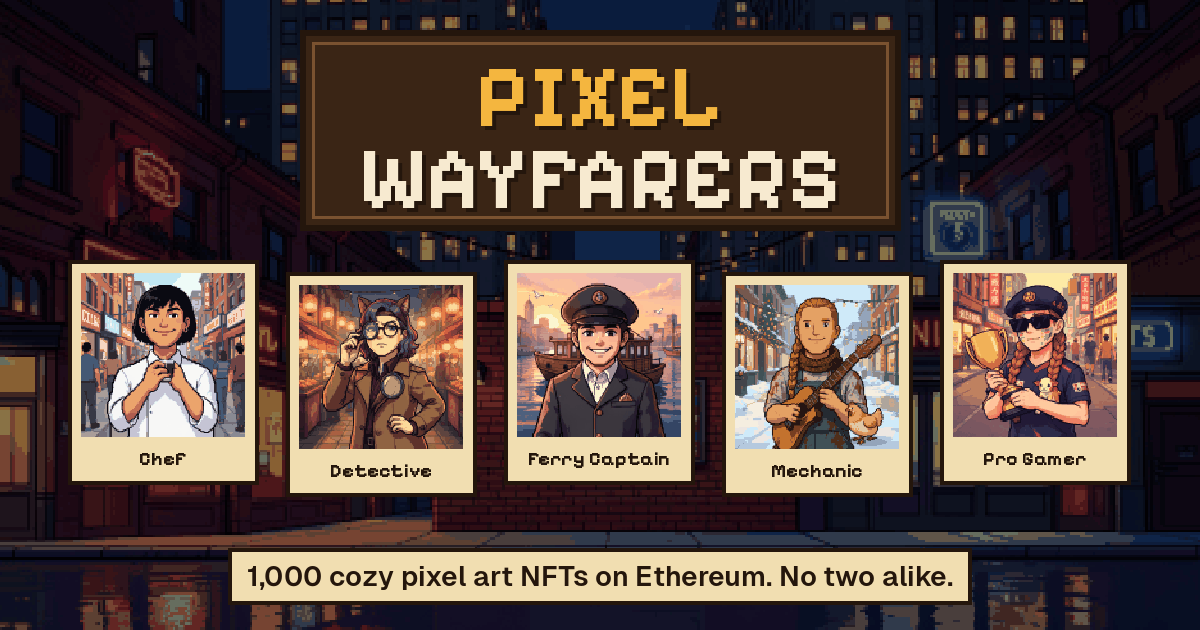
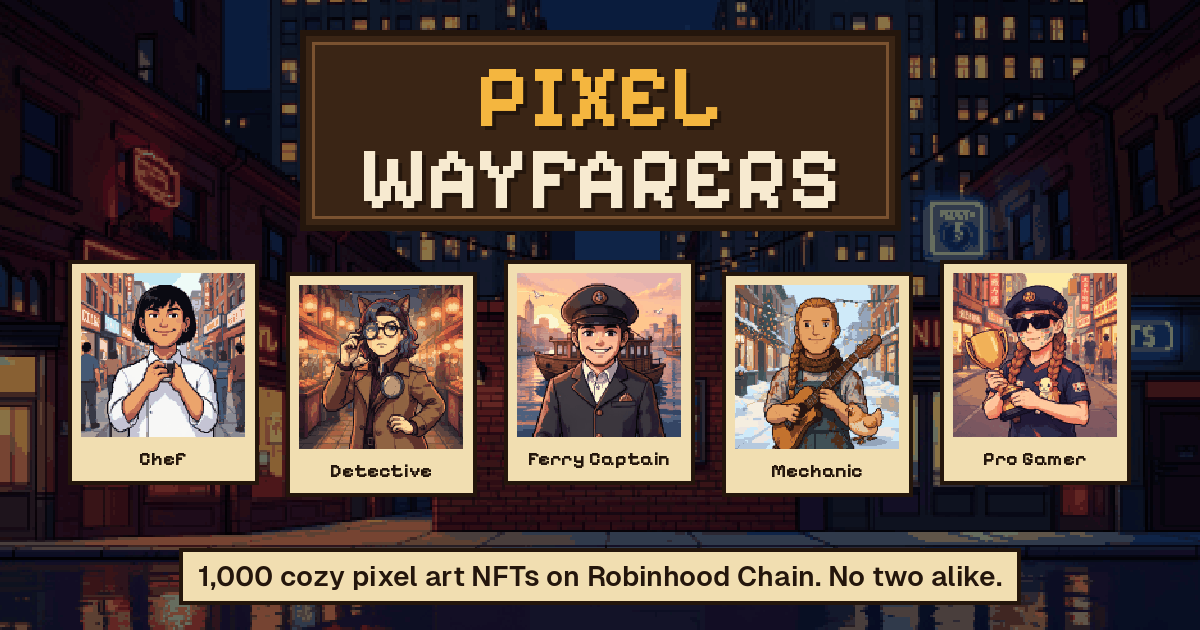
Switch to Robinhood Chain (4663 / testnet 46630): site copy, config, OpenSea text, OG; RPC relay in the Worker for ISPs that block robinhood.com; foundry endpoints via relay

Changed region(s): [[0.1233, 0.8444, 0.8633, 0.9651]]

diff --git a/worker/public/index.html b/worker/public/index.html
@@ -3,8 +3,8 @@
 <head>
 <meta charset="utf-8">
 <meta name="viewport" content="width=device-width, initial-scale=1">
-<title>Pixel Wayfarers | 1,000 Pixel Art NFTs on Ethereum</title>
-<meta name="description" content="Pixel Wayfarers is a collection of 1,000 cozy 16-bit pixel art NFTs on Ethereum. Chefs, nurses, pilots, streamers and crypto traders across five rarity tiers.">
+<title>Pixel Wayfarers | 1,000 Pixel Art NFTs on Robinhood Chain</title>
+<meta name="description" content="Pixel Wayfarers is a collection of 1,000 cozy 16-bit pixel art NFTs on Robinhood Chain. Chefs, nurses, pilots, streamers and crypto traders across five rarity tiers.">
 <link rel="canonical" href="https://pixelwayfarers.com/">
 <meta name="theme-color" content="#20140d">
 <link rel="icon" href="/favicon.ico" sizes="48x48">
@@ -13,14 +13,14 @@
 
 <meta property="og:type" content="website">
 <meta property="og:site_name" content="Pixel Wayfarers">
-<meta property="og:title" content="Pixel Wayfarers | 1,000 Pixel Art NFTs on Ethereum">
+<meta property="og:title" content="Pixel Wayfarers | 1,000 Pixel Art NFTs on Robinhood Chain">
 <meta property="og:description" content="Cozy 16-bit wayfarers from every walk of life. No two alike. The rarer the wayfarer, the wilder the art.">
 <meta property="og:url" content="https://pixelwayfarers.com/">
 <meta property="og:image" content="https://pixelwayfarers.com/brand/og.png">
 <meta property="og:image:width" content="1200">
 <meta property="og:image:height" content="630">
 <meta name="twitter:card" content="summary_large_image">
-<meta name="twitter:title" content="Pixel Wayfarers | 1,000 Pixel Art NFTs on Ethereum">
+<meta name="twitter:title" content="Pixel Wayfarers | 1,000 Pixel Art NFTs on Robinhood Chain">
 <meta name="twitter:description" content="Cozy 16-bit wayfarers. No two alike. The rarer the wayfarer, the wilder the art.">
 <meta name="twitter:image" content="https://pixelwayfarers.com/brand/og.png">
 
@@ -36,11 +36,11 @@
     {
       "@type": "CreativeWork",
       "name": "Pixel Wayfarers",
-      "description": "A collection of 1,000 cozy 16-bit pixel art NFT portraits on Ethereum, across five rarity tiers.",
+      "description": "A collection of 1,000 cozy 16-bit pixel art NFT portraits on Robinhood Chain, across five rarity tiers.",
       "url": "https://pixelwayfarers.com/",
       "image": "https://pixelwayfarers.com/brand/og.png",
       "genre": "Pixel art",
-      "keywords": "pixel art NFT, Ethereum NFT, 16-bit portraits, cozy pixel art"
+      "keywords": "pixel art NFT, Robinhood Chain NFT, 16-bit portraits, cozy pixel art"
     }
   ]
 }
@@ -50,8 +50,8 @@
 
 <div class="ticker ticker-dark" aria-hidden="true">
   <div class="ticker-track">
-    <span>1,000 wayfarers</span><span>built on ETH</span><span>no two alike</span><span>rarer means wilder</span><span>tinfoil hats included</span><span>touch grass</span><span>gm</span>
-    <span>1,000 wayfarers</span><span>built on ETH</span><span>no two alike</span><span>rarer means wilder</span><span>tinfoil hats included</span><span>touch grass</span><span>gm</span>
+    <span>1,000 wayfarers</span><span>on Robinhood Chain</span><span>no two alike</span><span>rarer means wilder</span><span>tinfoil hats included</span><span>touch grass</span><span>gm</span>
+    <span>1,000 wayfarers</span><span>on Robinhood Chain</span><span>no two alike</span><span>rarer means wilder</span><span>tinfoil hats included</span><span>touch grass</span><span>gm</span>
   </div>
 </div>
 
@@ -85,7 +85,7 @@
         <figure class="poster p5"><img src="/art/sample-04.png" alt="An example rare pro gamer holding a trophy" width="512" height="512"><figcaption>Pro Gamer</figcaption></figure>
       </div>
       <div class="scroll-panel">
-        <p class="lede">1,000 cozy pixel folk on Ethereum. Chefs, nurses, pilots, streamers. None of them alike.</p>
+        <p class="lede">1,000 cozy pixel folk on Robinhood Chain. Chefs, nurses, pilots, streamers. None of them alike.</p>
         <div class="cta-row">
           <a class="btn btn-gold" href="#mint">Mint a wayfarer<i class="ph-bold ph-arrow-right" aria-hidden="true"></i></a>
           <a class="btn btn-parchment" href="#world">Explore the city</a>
@@ -229,7 +229,7 @@
       <div class="quests reveal">
         <h3>How to mint</h3>
         <ol>
-          <li><i class="ph-bold ph-wallet" aria-hidden="true"></i><div><h4>Grab a wallet</h4><p>MetaMask, Coinbase Wallet or Rabby, with a little ETH.</p></div></li>
+          <li><i class="ph-bold ph-wallet" aria-hidden="true"></i><div><h4>Grab a wallet</h4><p>MetaMask or Rabby, with a little ETH on Robinhood Chain. Bridge it at portal.arbitrum.io, or send it from the Robinhood app. The mint box adds the network for you.</p></div></li>
           <li><i class="ph-bold ph-sparkle" aria-hidden="true"></i><div><h4>Mint up to 10</h4><p>0.004 ETH each, about $10. Every mint is a random draw from all 1,000.</p></div></li>
           <li><i class="ph-bold ph-check-circle" aria-hidden="true"></i><div><h4>Wait for reveal</h4><p>Art unlocks for everyone at once after the sale, so nobody can snipe a legendary.</p></div></li>
         </ol>
@@ -238,7 +238,7 @@
           <p>Founders mint first, for 0.003 ETH, before the public sale. Follow us on X, then sign up. Approved spots are announced on X.</p>
           <label for="f-x">X handle</label>
           <input id="f-x" name="x" placeholder="@yourname" autocomplete="off" required>
-          <label for="f-wallet">Ethereum wallet address</label>
+          <label for="f-wallet">Wallet address (0x...)</label>
           <input id="f-wallet" name="wallet" placeholder="0x..." autocomplete="off" spellcheck="false" required>
           <button class="btn btn-gold" type="submit">Join the founders list</button>
           <p class="founders-status js-founders-status" role="status"></p>
@@ -252,7 +252,7 @@
     <div class="wrap">
       <div class="sign-wrap reveal"><h2 class="sign">Notice board</h2></div>
       <div class="faq-list">
-        <details class="reveal" name="faq"><summary>Which blockchain?<i class="ph-bold ph-caret-down" aria-hidden="true"></i></summary><p>Ethereum mainnet. Trade on OpenSea or any Ethereum NFT marketplace.</p></details>
+        <details class="reveal" name="faq"><summary>Which blockchain?<i class="ph-bold ph-caret-down" aria-hidden="true"></i></summary><p>Robinhood Chain, an Ethereum layer 2 where gas costs a fraction of a cent and you pay in ETH. Trade on OpenSea.</p></details>
         <details class="reveal" name="faq"><summary>How much is one?<i class="ph-bold ph-caret-down" aria-hidden="true"></i></summary><p>0.004 ETH, about $10 at today&#39;s price, plus a few cents of gas.</p></details>
         <details class="reveal" name="faq"><summary>Can I pick my wayfarer?<i class="ph-bold ph-caret-down" aria-hidden="true"></i></summary><p>No. Every mint is a random draw, legendaries included. The order is locked by a provenance hash published before the sale.</p></details>
         <details class="reveal" name="faq"><summary>When do I see my art?<i class="ph-bold ph-caret-down" aria-hidden="true"></i></summary><p>At reveal, right after the sale. Until then every token shows the same mystery card.</p></details>

diff --git a/worker/src/index.ts b/worker/src/index.ts
@@ -135,6 +135,13 @@ async function authorized(request: Request, env: Env): Promise<boolean> {
 	return crypto.subtle.timingSafeEqual(a, b);
 }
 
+const RPC_METHODS = new Set([
+	"eth_chainId", "net_version", "eth_blockNumber", "eth_call", "eth_estimateGas", "eth_gasPrice",
+	"eth_maxPriorityFeePerGas", "eth_feeHistory", "eth_getBalance", "eth_getCode", "eth_getTransactionCount",
+	"eth_getTransactionByHash", "eth_getTransactionReceipt", "eth_getBlockByNumber", "eth_getBlockByHash",
+	"eth_sendRawTransaction", "eth_getLogs", "eth_getStorageAt", "web3_clientVersion",
+]);
+
 const WALLET = /^0x[0-9a-fA-F]{40}$/;
 const X_HANDLE = /^@?[A-Za-z0-9_]{1,15}$/;
 
@@ -157,6 +164,30 @@ async function publicApi(request: Request, env: Env, url: URL): Promise<Response
 			httpMetadata: { contentType: "application/json" },
 		});
 		return Response.json({ ok: true });
+	}
+
+	// JSON-RPC relay to Robinhood Chain: some ISPs (e.g. Indonesian DNS filtering) block robinhood.com,
+	// so the site and wallets use this instead. Signed transactions pass through untouched.
+	const rpc = url.pathname.match(/^\/api\/rpc\/(mainnet|testnet)$/);
+	if (rpc) {
+		const cors = { "access-control-allow-origin": "*", "access-control-allow-headers": "content-type" };
+		if (request.method === "OPTIONS") return new Response(null, { headers: cors });
+		if (request.method !== "POST") return new Response("POST only", { status: 405, headers: cors });
+		const body = await request.text();
+		if (body.length > 256_000) return new Response("too large", { status: 413, headers: cors });
+		let calls: { method?: string }[];
+		try {
+			const parsed = JSON.parse(body);
+			calls = Array.isArray(parsed) ? parsed : [parsed];
+		} catch {
+			return new Response("bad json", { status: 400, headers: cors });
+		}
+		if (calls.length > 20 || calls.some((c) => !RPC_METHODS.has(c.method ?? ""))) {
+			return Response.json({ error: "method not allowed" }, { status: 403, headers: cors });
+		}
+		const upstream = rpc[1] === "mainnet" ? "https://rpc.mainnet.chain.robinhood.com" : "https://rpc.testnet.chain.robinhood.com";
+		const res = await fetch(upstream, { method: "POST", headers: { "content-type": "application/json" }, body });
+		return new Response(res.body, { status: res.status, headers: { "content-type": "application/json", ...cors } });
 	}
 
 	const proof = url.pathname.match(/^\/api\/proof\/(0x[0-9a-fA-F]{40})$/);

diff --git a/worker/public/config.js b/worker/public/config.js
@@ -1,21 +1,22 @@
 // Launch settings for the site. Each network has its own contract address; fill it after deploying
-// contracts/src/PixelWayfarers.sol there. Visit /?network=sepolia to test the Sepolia deployment.
+// contracts/src/PixelWayfarers.sol there. Visit /?network=testnet to test the testnet deployment.
+// rpcUrl goes through our own relay (/api/rpc/...) because some ISPs block robinhood.com.
 window.WAYFARERS = {
 	network: "mainnet", // the network the public site uses
 	networks: {
 		mainnet: {
 			contractAddress: "", // empty = mint box shows "Mint opens soon"
-			chainId: 1,
-			chainName: "Ethereum",
-			rpcUrl: "https://ethereum-rpc.publicnode.com", // swap for an Alchemy URL before launch
-			explorerUrl: "https://etherscan.io",
+			chainId: 4663,
+			chainName: "Robinhood Chain",
+			rpcUrl: "https://pixelwayfarers.com/api/rpc/mainnet",
+			explorerUrl: "https://robinhoodchain.blockscout.com",
 		},
-		sepolia: {
+		testnet: {
 			contractAddress: "",
-			chainId: 11155111,
-			chainName: "Sepolia",
-			rpcUrl: "https://ethereum-sepolia-rpc.publicnode.com",
-			explorerUrl: "https://sepolia.etherscan.io",
+			chainId: 46630,
+			chainName: "Robinhood Chain Testnet",
+			rpcUrl: "https://pixelwayfarers.com/api/rpc/testnet",
+			explorerUrl: "https://explorer.testnet.chain.robinhood.com",
 		},
 	},
 	maxPerWallet: 10,

diff --git a/worker/public/app.js b/worker/public/app.js
@@ -1,5 +1,5 @@
 (() => {
-	// pick the network (?network=sepolia for testing) and flatten its settings onto C
+	// pick the network (?network=testnet for testing) and flatten its settings onto C
 	const cfg = window.WAYFARERS;
 	const wanted = new URLSearchParams(location.search).get("network");
 	const net = cfg.networks[wanted in cfg.networks ? wanted : cfg.network];
@@ -216,7 +216,7 @@
 
 	async function onClick() {
 		if (!window.ethereum) {
-			setStatus("No wallet found. Install Coinbase Wallet or MetaMask, then reload this page.", "err");
+			setStatus("No wallet found. Install MetaMask or Rabby, then reload this page.", "err");
 			return;
 		}
 		try {

diff --git a/README.md b/README.md
@@ -2,7 +2,7 @@
 
 1,000 AI-generated cozy pixel-art characters of every kind (chefs, pirates, astronauts, wizards...). Every token is generated from its own
 rolled traits; the rarer the tier, the richer the prompt, the stronger the model and
-the bigger the palette. Minted at ~$10 each on Ethereum, traded on OpenSea.
+the bigger the palette. Minted at 0.004 ETH (~$10) each on Robinhood Chain (Ethereum L2, chain 4663), traded on OpenSea.
 
 ## Rarity tiers
 
@@ -130,8 +130,10 @@ export PRICE_WEI=$(cast to-wei 0.004)            # 0.004 ETH (~$10)
 export HIDDEN_URI=https://pixelwayfarers.com/hidden.json   # served by the site until reveal
 export PROVENANCE=0x<hash from provenance>
 export ROYALTY_RECEIVER=0xYourWallet
-forge script script/Deploy.s.sol --rpc-url sepolia --account deployer --broadcast   # test first
-forge script script/Deploy.s.sol --rpc-url mainnet --account deployer --broadcast   # then mainnet
+forge script script/Deploy.s.sol --rpc-url robinhood_testnet --account deployer --broadcast   # test first (chain 46630)
+forge script script/Deploy.s.sol --rpc-url robinhood --account deployer --broadcast           # then mainnet (chain 4663)
+# verify on Blockscout:
+forge verify-contract <addr> src/PixelWayfarers.sol:PixelWayfarers --verifier blockscout --verifier-url https://robinhoodchain.blockscout.com/api/ --rpc-url robinhood
 ```
 
 ## Founders list (phase 1)
@@ -146,7 +148,7 @@ forge script script/Deploy.s.sol --rpc-url mainnet --account deployer --broadcas
 ## Launch + OpenSea
 
 1. Deploy (above). Put the address in `worker/public/config.js`, push: site mint goes live.
-2. `cast send <addr> "setSaleActive(bool)" true --rpc-url mainnet --account deployer`.
+2. `cast send <addr> "setSaleActive(bool)" true --rpc-url robinhood --account deployer`.
 3. OpenSea indexes the contract by itself within minutes of the first mint. It reads
    `contractURI()` for name/logo/banner, and `tokenURI()` for each item.
 4. On opensea.io, connect the **deployer wallet** -> the collection page -> edit
@@ -166,4 +168,5 @@ mint, bots could time mints to grab legendaries.
 ## Rules
 
 - The base style prompt names a game only to hit its art style; never use that name publicly (site, socials, OpenSea, metadata). No characters, sprites or logos from existing games in traits, and reject any render that looks like an existing character.
-- Test on Sepolia before mainnet. Use a fresh deployer wallet.
+- Test on Robinhood Chain testnet before mainnet. Use a fresh deployer wallet, funded via the Arbitrum bridge (portal.arbitrum.io).
+- RPC goes through `pixelwayfarers.com/api/rpc/{mainnet,testnet}` (a relay in the Worker) because some ISPs, including Indonesian ones, block robinhood.com.
